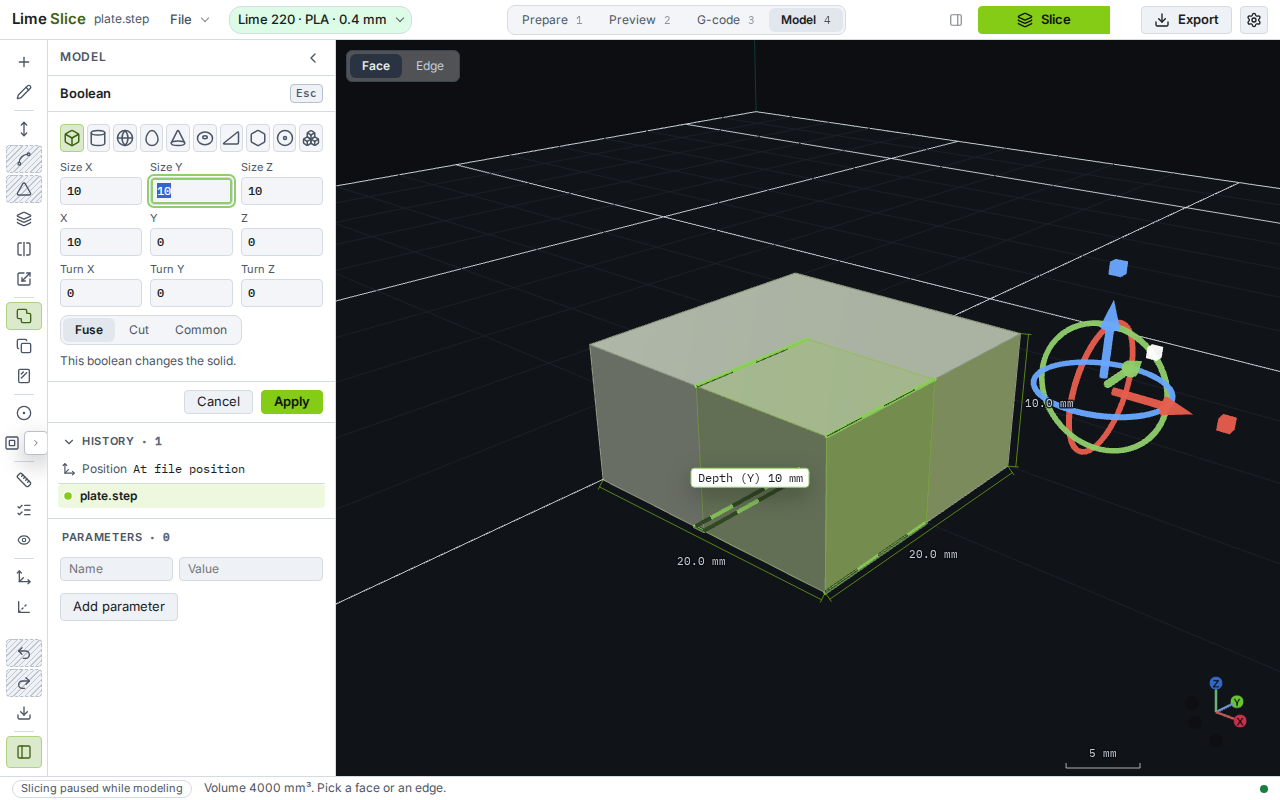
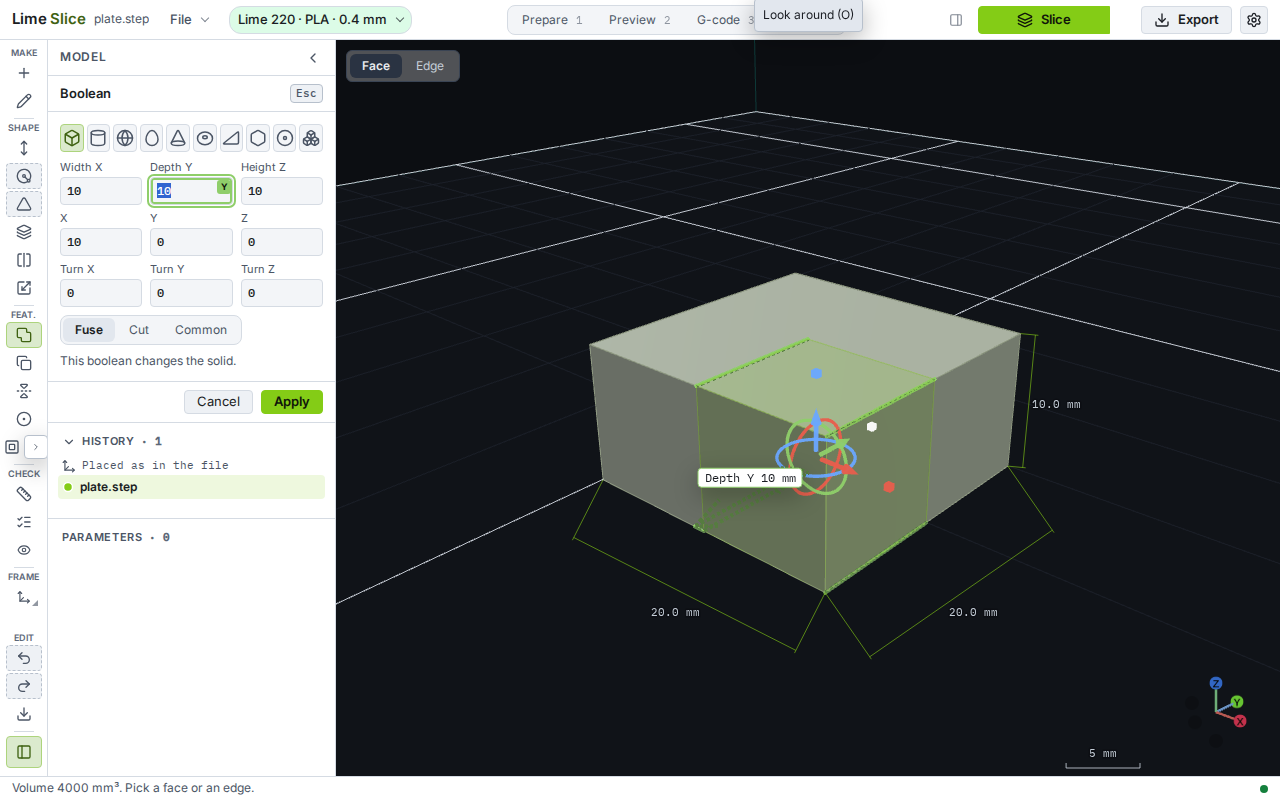
R2-10: retake the review shots and mark the round statuses
Canvas and form shots replace the old crops. Round 2 and 3 statuses name the checks that passed, and the frame-time tasks stay open at 40.3 ms.

diff --git a/docs/ui-review-tasks.md b/docs/ui-review-tasks.md
@@ -406,6 +406,8 @@ The same rules as round 1 apply:
 
 ### R2-01 (P0). The frame-time check must run in the build Playwright tests
 
+Status: not done. The preview build records the gaps and the assertion prints the median: 40.3 ms from 46 frames. That is above 17 ms, so the check stays as written.
+
 - **Seen**:
   - `recordFrame` in `src/model-view.ts` writes `window.__frameTimes` only when `import.meta.env.DEV` is set.
   - Playwright serves `vite preview`, which is a production build, so the list stays empty.
@@ -422,6 +424,8 @@ The same rules as round 1 apply:
 
 ### R2-02 (P0). `preserveDrawingBuffer` off for users
 
+Status: done. `grep preserveDrawingBuffer src` finds nothing. The PH-01 colour check in `e2e/model-drag.spec.ts` passed on the preview build.
+
 - **Seen**: `new THREE.WebGLRenderer({ canvas, antialias: true, preserveDrawingBuffer: true })` at
   `src/model-view.ts:254`. It was added so a test can read a pixel, but it slows every Model frame for every user.
 - **Change**:
@@ -433,6 +437,8 @@ The same rules as round 1 apply:
   `e2e/model-drag.spec.ts` still passes.
 
 ### R2-03 (P0). Draw the lit edges once: solid where seen, dashed where hidden
+
+Status: done. A visible edge midpoint matches the axis green. A hidden point is not that green, and a 20 px walk along it alternates with the part behind the dash (about 22 ΔE, so the check uses 15). `ph01-after-axis.png` and `ph08-after-badge.png` were retaken.
 
 - **Seen**: in `replaceAspect`:
   - The visible pass has `depthTest: false`, so it draws the whole edge through the solid.
@@ -453,6 +459,8 @@ The same rules as round 1 apply:
 
 ### R2-04 (P0). Typed-value boxes light their handle again
 
+Status: done. Tabbing into the extrude distance field sets `data-aspect-field`. Focusing the auto-slice setting does not change `data-focus-syncs`.
+
 - **Seen**:
   - PH-06 moved the `focusin`/`focusout` listeners to `#modelPanel`.
   - The typed-value box (`src/interact/hud.ts`) is mounted on the canvas's parent, outside the panel. It's mounted by
@@ -469,6 +477,8 @@ The same rules as round 1 apply:
   - Focusing a Settings field still leaves `data-focus-syncs` unchanged.
 
 ### R2-05 (P1). Work out the ghost seats once per ghost, not per frame
+
+Status: not done. The ghost box, its face points, and the label size are cached, and a drag does not raycast the solid for the edge sample. The 3,000-face median on the preview build is 40.3 ms from 46 frames, above 17 ms. There is no 40-hole timing case.
 
 - **Seen**: `sizeHandles()` runs every frame (`src/model-view.ts:1464`) and on every pointer move (`handleAt`). It
   now calls:
@@ -488,6 +498,8 @@ The same rules as round 1 apply:
 
 ### R2-06 (P1). Take out the "Hole N depth" buttons
 
+Status: done. Hovering hole 2's knob lights that hole. The shared depth field lights every hole. Nothing has an id starting with `modelHoleDepth-`.
+
 - **Seen**: PH-07 added a row of buttons, "Hole 1 depth", "Hole 2 depth" and so on (`paintHolePicks` in
   `src/ui/model-chrome.ts`). Their only job is to take focus. Clicking one changes nothing, and with 20 holes there are
   20 of them.
@@ -503,6 +515,8 @@ The same rules as round 1 apply:
   - No element has an id starting with `modelHoleDepth-`.
 
 ### R2-07 (P1). Remember Parameters open or closed per project, keyed properly
+
+Status: done. The fold key is the project title, unsaved projects share one key, and 60 writes keep at most 50. `src/modeling/params.test.ts` covers it. The `.lime` wire is unchanged.
 
 - **Seen**: the key comes from
   `projectId: () => state.plate.objects.map((object) => object.id).join(",")` in `src/app/model.ts:575`. That key:
@@ -521,6 +535,8 @@ The same rules as round 1 apply:
 
 ### R2-08 (P1). Rail headings fit, and stay on laptop screens
 
+Status: done. At 1440×900, 1366×768, and 1280×800 every heading is visible and no wider than its box. Measure stays on the rail at 800 px and above. At 768 px Inspect and Frame fold into flyouts. At 720 px Features folds too, and the dock test opens that flyout.
+
 - **Seen**:
   - "FEATURES" is clipped at the left edge in `ux02-after-disabled.png` and `ux09-after-chip.png`.
   - Below 820 px tall the headings are hidden (`@media (min-height: 820px)` in `src/ui/model-dock.css`). So at
@@ -534,6 +550,8 @@ The same rules as round 1 apply:
   `scrollWidth <= clientWidth`, and every rail tool is still reachable.
 
 ### R2-09 (P1). The sketch card's feature strip reads as a form, not a centred stack
+
+Status: done. Extrude and Loft keep Apply and Cancel on one row, Apply primary, and the name and prompt on the card's left edge. `ux03-after-feature-strip.png` was retaken.
 
 - **Seen**: in `ux03-after-feature-strip.png`, while Loft is active:
   - the prompt, the name, Join/Cut/New object, Smooth, Apply and Cancel are a centred column of different widths;
@@ -553,6 +571,8 @@ The same rules as round 1 apply:
   Retake both `ux03-after-*` screenshots after UX-02, so they show the dashed disabled style.
 
 ### R2-10 (P2). Small fixes
+
+Status: done. `ux05-after-hud.png` is a canvas shot. The selection chip's text is `1 face ▾`. Screenshots under `docs/screenshots/` write only when `UPDATE_SCREENSHOTS=1`. The engine byte comparison was not run: the unit runner reports `golden: SKIPPED` because this machine has no slicer binary.
 
 - **Screenshot for UX-05**: `ux05-after-hud.png` is a 40 px crop of the field. Replace it with a canvas shot that
   shows the box next to the extrude arrow it belongs to.
@@ -596,6 +616,10 @@ Rules:
 
 ### R3-01 (P0). Prepare's keys stop firing in other stages
 
+Status: done.
+- Pass: the unit matrix returns null for M, R, F, B, K, N, E, C, T, Y, I, /, Ctrl+F, and Shift+1 in stages whose button is not on screen, and the same command as before where it is.
+- Pass: in Model, M does not press Prepare's move tool (`e2e/model-layout.spec.ts`).
+
 - **Seen**: these commands have scope `always`, but the buttons they click (`target`) live in a rail set shown only in
   some stages (`railSet(...)` in `src/ui/chrome.ts`). In other stages, `runCommand` clicks a hidden button: nothing
   changes on screen, but the state of the other stage does.
@@ -635,6 +659,12 @@ Rules:
 
 ### R3-02 (P0). Declare the sketch's keys in the registry
 
+Status: done.
+- Pass: the `?` sheet lists Loft beside Shift+L while a sketch is open.
+- Pass: with a sketch open, letter keys resolve to a sketch command or null, never a Model command.
+- Pass: `e2e/model-sketch.spec.ts`, `model-loft`, and `model-holes` passed on the preview build. `model-revolve` and `model-sweep` were not in this run.
+- Pass: `grep 'ev.key === "w"' src/app/sketch.ts` finds nothing.
+
 - **Seen**: the sketch handles its own keys in `src/app/sketch.ts:417` and in `sketchKey` and `sketchHandlesKey`
   (`src/sketch/session.ts:457`). The keys are:
   - drawing tools: L Line, R Rectangle, C Circle, A Arc (Shift+A tangent arc), N Polygon, Shift+S Slot, B Spline;
@@ -673,6 +703,9 @@ Rules:
 
 ### R3-03 (P0). Number keys don't leave Model in the middle of a sketch
 
+Status: done.
+- Pass: typing 2, 5, Enter on a line mid-sketch stays on Model and the line is 25 mm.
+
 - **Seen**: `tab-prepare` to `tab-model` (1 to 4) are `always` and not `typing`. The sketch doesn't take digits, so
   typing "25" for a line's length before clicking into the size box switches the app to Preview mid-sketch.
 - **Change**: while `sketchOpen`, a digit, ".", "-" or "(" focuses the active tool's size box and goes into it, as
@@ -683,6 +716,10 @@ Rules:
   is still Model (`#tabModel[aria-selected="true"]`), and the line is 25 mm.
 
 ### R3-04 (P1). Same job, same key, in Model too
+
+Status: done.
+- Pass: in Model with no sketch, Shift+M is `model-measure` and T is `model-view-top`. In a sketch, T is Trim.
+- Pass: T then I moves the Model camera from top to iso.
 
 - **Measure**:
   - Seen: Shift+M toggles Prepare's rulers (`#measureField`). Model's own Measure tool (`#modelToolMeasure`) has no
@@ -713,6 +750,9 @@ Rules:
 
 ### R3-05 (P1). One test that keeps keys honest
 
+Status: done.
+- Pass: on the registry at `74c67fd` the same test reported 692 failures. `0c30fe2` cannot load it (`tipWithShortcut` is not there yet). It passes in `npm run test:unit` on this branch.
+
 - **Change**: extend `src/ui/commands.test.ts` with a table-driven check over every combination of:
   - stage (4);
   - sketch open or not;
@@ -731,6 +771,11 @@ Rules:
   - It runs from `tools/unit-tests.txt` (`npm run test:unit`).
 
 ### R3-06 (P2). Small fixes
+
+Status: done.
+- Pass: Arc and Fillet use different icon paths, and the drawing-tool tips name their keys.
+- Pass: the shortcut sheet lists each Shift+click meaning once.
+- Pass: sketch edit buttons show their keys in the tooltips.
 
 - **Duplicate icon**: after UX-01, the sketch's Arc button and Model's Fillet both use Lucide's `Radius`. Give Arc
   its own icon (a quarter-arc SVG drawn in the Lucide style; Spline already uses `Spline`) so the two never look the

diff --git a/docs/ui-review-3-1.md b/docs/ui-review-3-1.md
@@ -256,4 +256,26 @@ Dimension labels stand off the solid. Each one clears the solid's projected box 
 - Playwright, against the dev server, for the specs this branch changes: `ui-review`, `model-sketch`, `model-context-bar`, `model-layout`, `model-features`, `model-parameters`, `window-fit`, `compact-layout`, `plate`, `view-rulers`
 - `tools/golden_ab.sh` needs a built slicer binary. This change does not touch the engine, the slice path, or G-code. The unit runner reports `golden: SKIPPED` when that binary is absent.
 
-At 1440×900 every Model tool is on the rail. At 1366×768 only the Frame group folds. Tools still take a typed value and a click. New actions went into existing menus and the command palette, not onto the toolbar.
+At 1440×900 every Model tool is on the rail. At 1366×768 the headings stay, and Inspect and Frame fold into flyouts. Tools still take a typed value and a click. New actions went into existing menus and the command palette, not onto the toolbar.
+
+## Rounds 2 and 3
+
+Lit edges are solid where the solid does not cover them and dashed, at 60% of the axis colour, where it does.
+
+![A size axis, solid in front and dashed behind](screenshots/ui-review-3-1/ph01-after-axis.png)
+
+![Depth Y focused, badge on the field](screenshots/ui-review-3-1/ph08-after-badge.png)
+
+Boolean sizes use the same names as the primitive: Width X, Depth Y, Height Z.
+
+![Boolean box sizes named Width, Depth, and Height](screenshots/ui-review-3-1/ph03-followup-after-sizes.png)
+
+The sketch feature strip is a left-aligned form. Apply is the primary button.
+
+![Loft strip: prompt, name, Smooth, Apply and Cancel](screenshots/ui-review-3-1/ux03-after-feature-strip.png)
+
+The extrude size box sits on the canvas next to its arrow.
+
+![Extrude distance beside the arrow](screenshots/ui-review-3-1/ux05-after-hud.png)
+
+The 3,000-face frame check runs on the preview build. Its median was 40.3 ms from 46 frames, above the 17 ms bar, so that task stays open. The engine byte comparison was not run: there is no slicer binary here (`golden: SKIPPED`).
